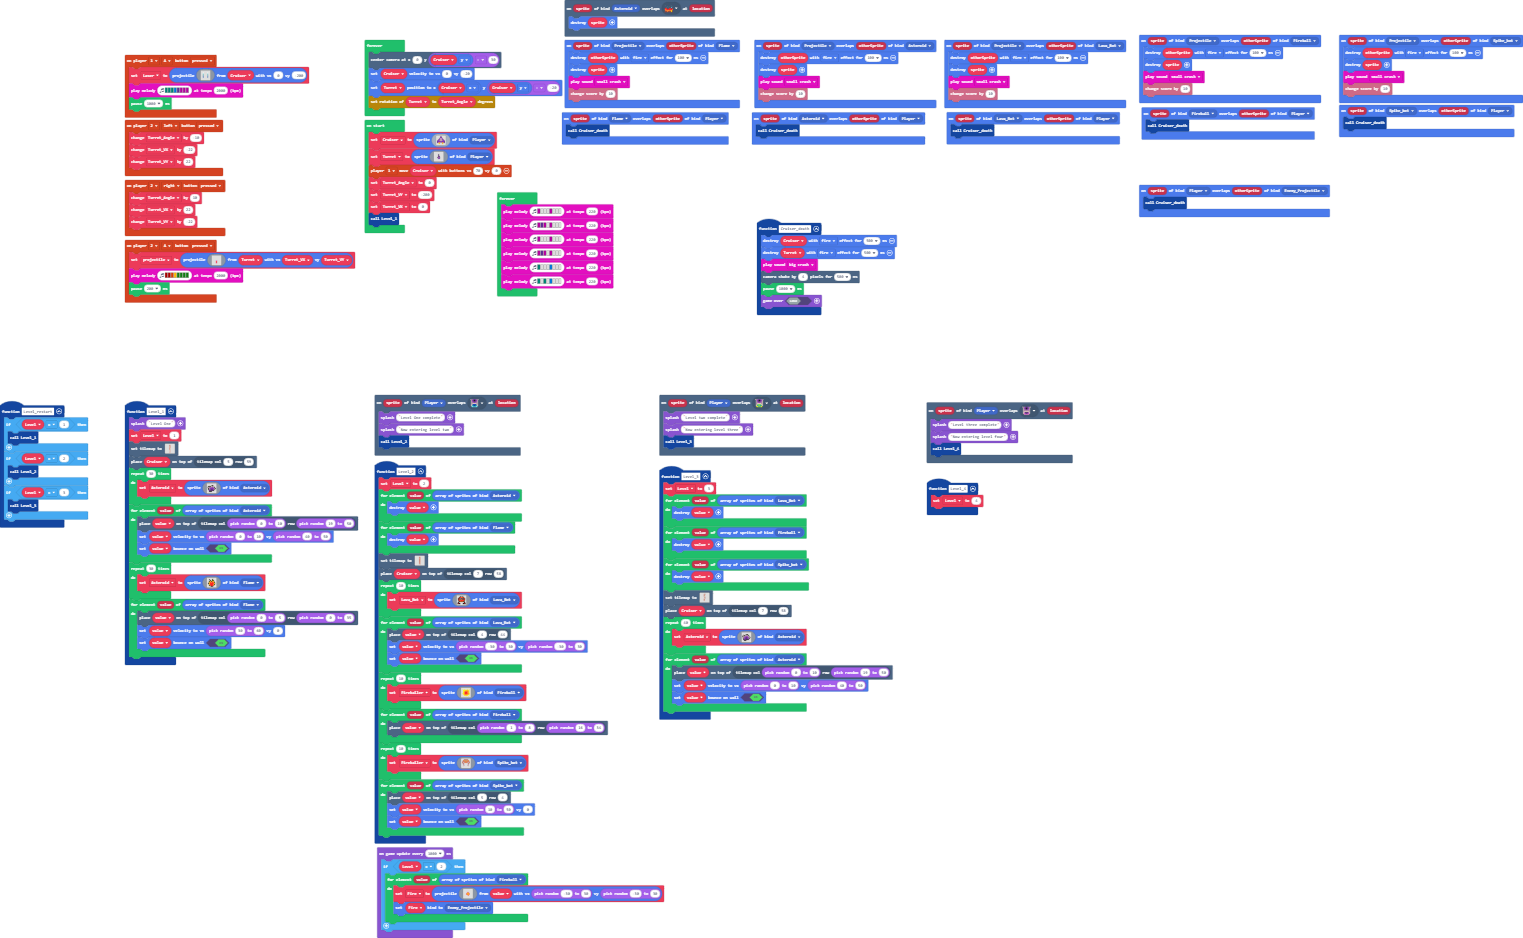
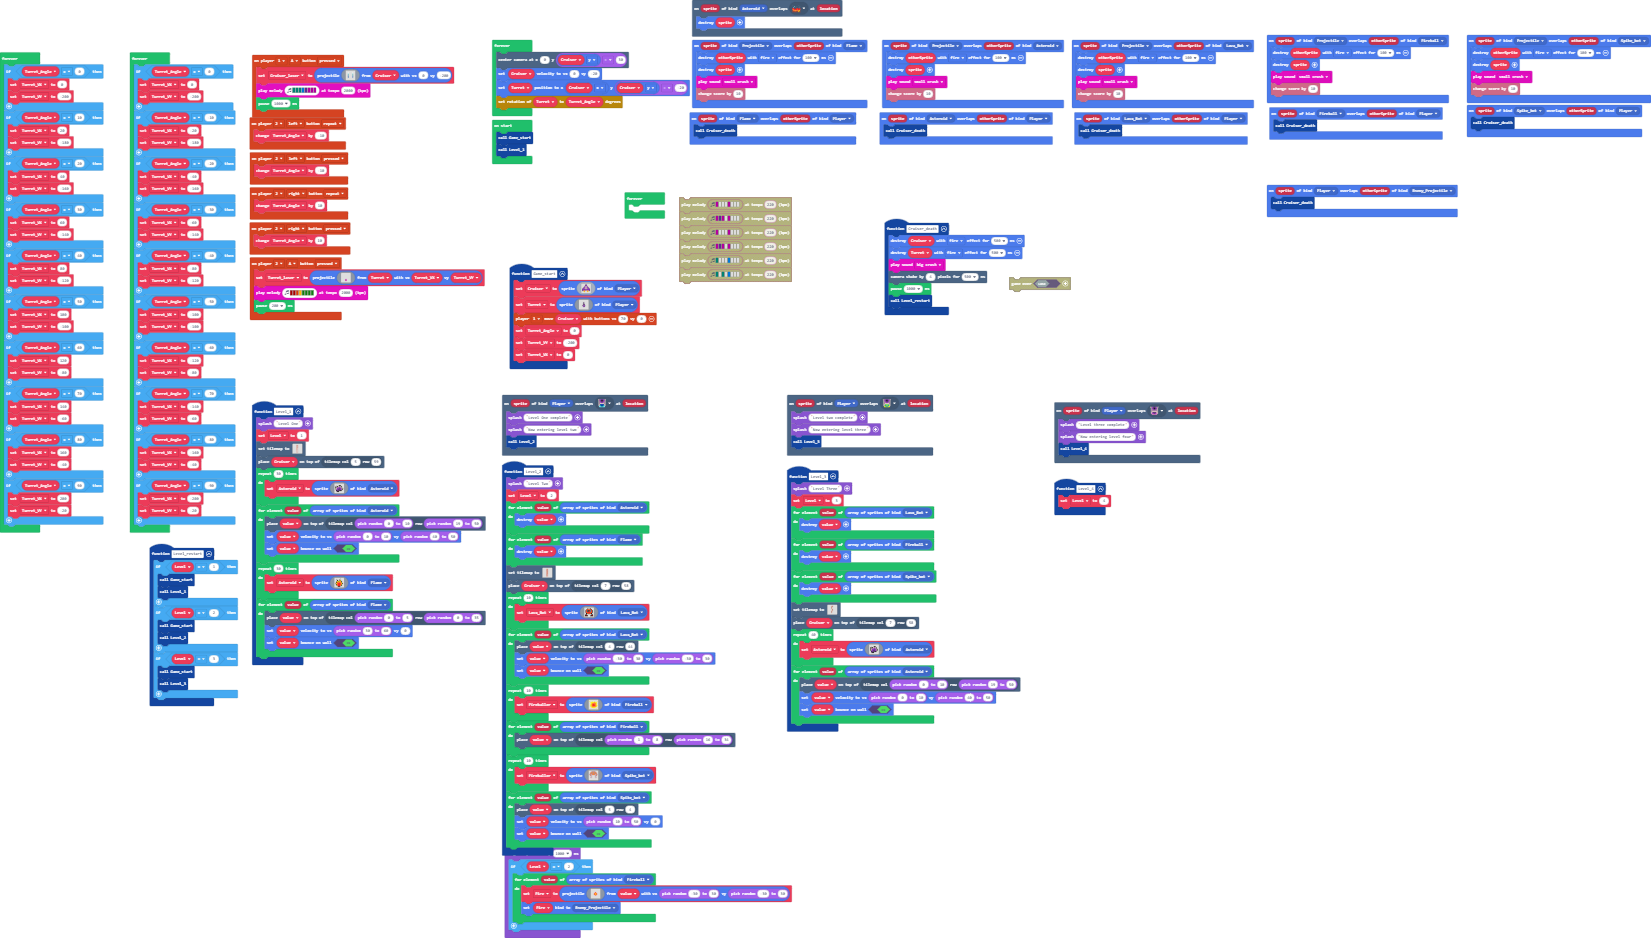
Update main.blocks, main.ts

Changed region(s): [[0.0, 0.0, 0.9875, 1.0], [0.7406, 0.1855, 0.8949, 0.2473]]

diff --git a/main.ts b/main.ts
@@ -8,12 +8,15 @@ namespace SpriteKind {
 }
 function Level_restart () {
     if (Level == 1) {
+        Game_start()
         Level_1()
     }
     if (Level == 2) {
+        Game_start()
         Level_2()
     }
     if (Level == 3) {
+        Game_start()
         Level_3()
     }
 }
@@ -83,7 +86,9 @@ sprites.onOverlap(SpriteKind.Spike_bot, SpriteKind.Player, function (sprite, oth
     Cruiser_death()
 })
 controller.player2.onButtonEvent(ControllerButton.A, ControllerButtonEvent.Pressed, function () {
-    projectile = sprites.createProjectileFromSprite(img`
+    Turret_laser = sprites.createProjectileFromSprite(img`
+        . . . . . . . . . . . . . . . . 
+        . . . . . . . . . . . . . . . . 
         . . . . . . . . . . . . . . . . 
         . . . . . . . . . . . . . . . . 
         . . . . . . . . . . . . . . . . 
@@ -93,11 +98,9 @@ controller.player2.onButtonEvent(ControllerButton.A, ControllerButtonEvent.Press
         . . . . . . . . . . . . . . . . 
         . . . . . . . . . . . . . . . . 
         . . . . . . . 3 3 . . . . . . . 
-        . . . . . . . a a . . . . . . . 
-        . . . . . . . 2 2 . . . . . . . 
-        . . . . . . . 2 2 . . . . . . . 
-        . . . . . . . 2 2 . . . . . . . 
-        . . . . . . . a a . . . . . . . 
+        . . . . . . 3 a a 3 . . . . . . 
+        . . . . . . a 2 2 a . . . . . . 
+        . . . . . . 3 a a 3 . . . . . . 
         . . . . . . . 3 3 . . . . . . . 
         . . . . . . . . . . . . . . . . 
         `, Turret, Turret_VX, Turret_VY)
@@ -136,14 +139,15 @@ scene.onOverlapTile(SpriteKind.Player, assets.tile`myTile17`, function (sprite, 
 })
 controller.player2.onButtonEvent(ControllerButton.Right, ControllerButtonEvent.Pressed, function () {
     Turret_Angle += 10
-    Turret_VX += 22
-    Turret_VY += -22
 })
 sprites.onOverlap(SpriteKind.Flame, SpriteKind.Player, function (sprite, otherSprite) {
     Cruiser_death()
 })
 scene.onOverlapTile(SpriteKind.Asteroid, assets.tile`myTile18`, function (sprite, location) {
     sprite.destroy()
+})
+controller.player2.onButtonEvent(ControllerButton.Left, ControllerButtonEvent.Repeated, function () {
+    Turret_Angle += -10
 })
 sprites.onOverlap(SpriteKind.Projectile, SpriteKind.Fireball, function (sprite, otherSprite) {
     otherSprite.destroy(effects.fire, 100)
@@ -153,11 +157,9 @@ sprites.onOverlap(SpriteKind.Projectile, SpriteKind.Fireball, function (sprite, 
 })
 controller.player2.onButtonEvent(ControllerButton.Left, ControllerButtonEvent.Pressed, function () {
     Turret_Angle += -10
-    Turret_VX += -22
-    Turret_VY += 22
 })
 controller.player1.onButtonEvent(ControllerButton.A, ControllerButtonEvent.Pressed, function () {
-    Laser = sprites.createProjectileFromSprite(img`
+    Cruiser_laser = sprites.createProjectileFromSprite(img`
         . . . . . . . . . . . . . . . . 
         . . . . . . . . . . . . . . . . 
         . . . 1 . . . . . . . . 1 . . . 
@@ -181,6 +183,31 @@ controller.player1.onButtonEvent(ControllerButton.A, ControllerButtonEvent.Press
 sprites.onOverlap(SpriteKind.Player, SpriteKind.Enemy_Projectile, function (sprite, otherSprite) {
     Cruiser_death()
 })
+function Game_start () {
+    Cruiser = sprites.create(assets.image`-`, SpriteKind.Player)
+    Turret = sprites.create(img`
+        . . . . . . . . . . . . . . . . 
+        . . . . . . . . . . . . . . . . 
+        . . . . . . . . . . . . . . . . 
+        . . . . . . . c c . . . . . . . 
+        . . . . . . . c c . . . . . . . 
+        . . . . . . . c c . . . . . . . 
+        . . . . . . . c c . . . . . . . 
+        . . . . . . c c c c . . . . . . 
+        . . . . . . c a a c . . . . . . 
+        . . . . . c a b b a c . . . . . 
+        . . . . . c a b b a c . . . . . 
+        . . . . . . c a a c . . . . . . 
+        . . . . . . . c c . . . . . . . 
+        . . . . . . . . . . . . . . . . 
+        . . . . . . . . . . . . . . . . 
+        . . . . . . . . . . . . . . . . 
+        `, SpriteKind.Player)
+    controller.player1.moveSprite(Cruiser, 70, 0)
+    Turret_Angle = 0
+    Turret_VY = -200
+    Turret_VX = 0
+}
 sprites.onOverlap(SpriteKind.Projectile, SpriteKind.Flame, function (sprite, otherSprite) {
     otherSprite.destroy(effects.fire, 100)
     sprite.destroy()
@@ -191,6 +218,7 @@ sprites.onOverlap(SpriteKind.Asteroid, SpriteKind.Player, function (sprite, othe
     Cruiser_death()
 })
 function Level_3 () {
+    game.splash("Level Three")
     Level = 3
     for (let value of sprites.allOfKind(SpriteKind.Lava_Bot)) {
         value.destroy()
@@ -229,7 +257,11 @@ function Level_3 () {
         value.setBounceOnWall(true)
     }
 }
+controller.player2.onButtonEvent(ControllerButton.Right, ControllerButtonEvent.Repeated, function () {
+    Turret_Angle += 10
+})
 function Level_2 () {
+    game.splash("Level Two")
     Level = 2
     for (let value of sprites.allOfKind(SpriteKind.Asteroid)) {
         value.destroy()
@@ -325,42 +357,21 @@ function Cruiser_death () {
     music.bigCrash.play()
     scene.cameraShake(4, 500)
     pause(1000)
-    game.over(false)
+    Level_restart()
 }
 let Fire: Sprite = null
 let Fireballer: Sprite = null
 let Lava_Bot: Sprite = null
-let Laser: Sprite = null
-let projectile: Sprite = null
-let Asteroid: Sprite = null
-let Level = 0
-let Turret_VX = 0
-let Turret_VY = 0
-let Turret: Sprite = null
-let Cruiser: Sprite = null
-Cruiser = sprites.create(assets.image`-`, SpriteKind.Player)
-Turret = sprites.create(img`
-    . . . . . . . . . . . . . . . . 
-    . . . . . . . . . . . . . . . . 
-    . . . . . . . . . . . . . . . . 
-    . . . . . . . c c . . . . . . . 
-    . . . . . . . c c . . . . . . . 
-    . . . . . . . c c . . . . . . . 
-    . . . . . . . c c . . . . . . . 
-    . . . . . . c c c c . . . . . . 
-    . . . . . . c a a c . . . . . . 
-    . . . . . c a b b a c . . . . . 
-    . . . . . c a b b a c . . . . . 
-    . . . . . . c a a c . . . . . . 
-    . . . . . . . c c . . . . . . . 
-    . . . . . . . . . . . . . . . . 
-    . . . . . . . . . . . . . . . . 
-    . . . . . . . . . . . . . . . . 
-    `, SpriteKind.Player)
-controller.player1.moveSprite(Cruiser, 70, 0)
+let Cruiser_laser: Sprite = null
 let Turret_Angle = 0
-Turret_VY = -200
-Turret_VX = 0
+let Turret_VY = 0
+let Turret_VX = 0
+let Turret: Sprite = null
+let Turret_laser: Sprite = null
+let Asteroid: Sprite = null
+let Cruiser: Sprite = null
+let Level = 0
+Game_start()
 Level_1()
 game.onUpdateInterval(1000, function () {
     if (Level == 2) {
@@ -388,16 +399,95 @@ game.onUpdateInterval(1000, function () {
     }
 })
 forever(function () {
+    if (Turret_Angle == 0) {
+        Turret_VX = 0
+        Turret_VY = -200
+    }
+    if (Turret_Angle == 10) {
+        Turret_VX = 20
+        Turret_VY = -180
+    }
+    if (Turret_Angle == 20) {
+        Turret_VX = 40
+        Turret_VY = -160
+    }
+    if (Turret_Angle == 30) {
+        Turret_VX = 60
+        Turret_VY = -140
+    }
+    if (Turret_Angle == 40) {
+        Turret_VX = 80
+        Turret_VY = -120
+    }
+    if (Turret_Angle == 50) {
+        Turret_VX = 100
+        Turret_VY = -100
+    }
+    if (Turret_Angle == 60) {
+        Turret_VX = 120
+        Turret_VY = -80
+    }
+    if (Turret_Angle == 70) {
+        Turret_VX = 140
+        Turret_VY = -60
+    }
+    if (Turret_Angle == 80) {
+        Turret_VX = 160
+        Turret_VY = -40
+    }
+    if (Turret_Angle == 90) {
+        Turret_VX = 200
+        Turret_VY = -20
+    }
+})
+forever(function () {
+    if (Turret_Angle == 0) {
+        Turret_VX = 0
+        Turret_VY = -200
+    }
+    if (Turret_Angle == -10) {
+        Turret_VX = -20
+        Turret_VY = -180
+    }
+    if (Turret_Angle == -20) {
+        Turret_VX = -40
+        Turret_VY = -160
+    }
+    if (Turret_Angle == -30) {
+        Turret_VX = -60
+        Turret_VY = -140
+    }
+    if (Turret_Angle == -40) {
+        Turret_VX = -80
+        Turret_VY = -120
+    }
+    if (Turret_Angle == -50) {
+        Turret_VX = -100
+        Turret_VY = -100
+    }
+    if (Turret_Angle == -60) {
+        Turret_VX = -120
+        Turret_VY = -80
+    }
+    if (Turret_Angle == -70) {
+        Turret_VX = -140
+        Turret_VY = -60
+    }
+    if (Turret_Angle == -80) {
+        Turret_VX = -160
+        Turret_VY = -40
+    }
+    if (Turret_Angle == -90) {
+        Turret_VX = -200
+        Turret_VY = -20
+    }
+})
+forever(function () {
     scene.centerCameraAt(0, Cruiser.y - 30)
     Cruiser.setVelocity(0, -20)
     Turret.setPosition(Cruiser.x, Cruiser.y - -20)
     transformSprites.rotateSprite(Turret, Turret_Angle)
 })
 forever(function () {
-    music.playMelody("C - - - C - - - ", 220)
-    music.playMelody("C D C - C - - - ", 220)
-    music.playMelody("C - - - C - - - ", 220)
-    music.playMelody("C D C - C - - - ", 220)
-    music.playMelody("F - - - E - - - ", 220)
-    music.playMelody("F - F - E - - - ", 220)
+	
 })
